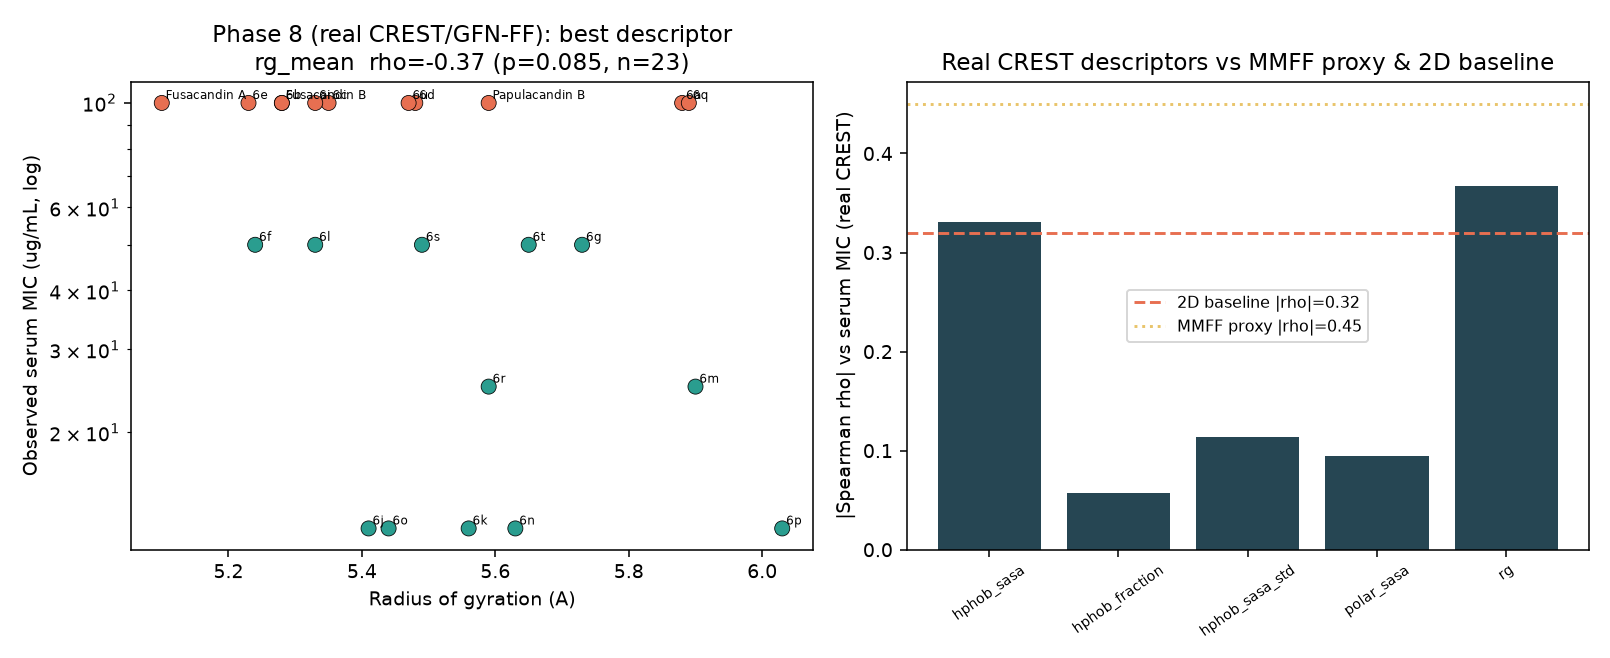
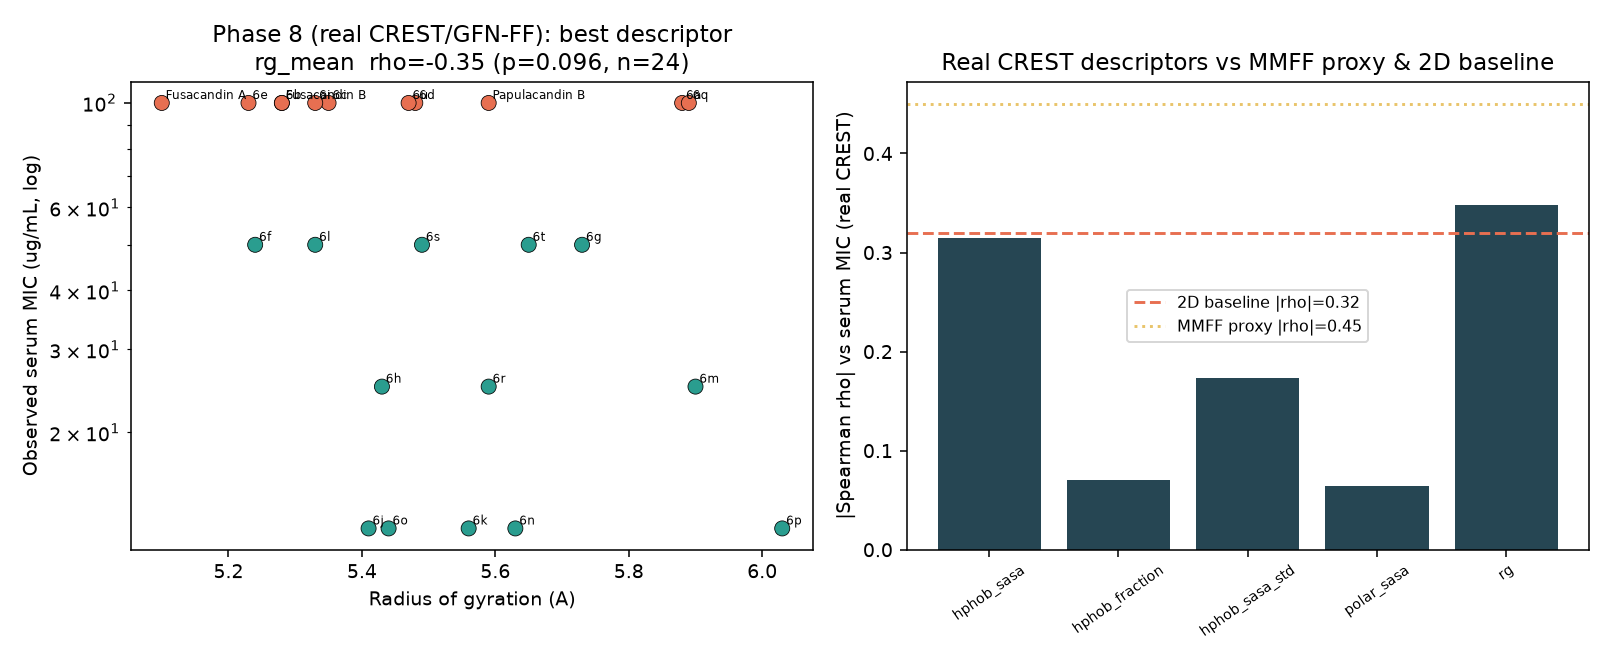
Phase 8 refreshed to complete n=24 (6h --notopo ensemble folded in)
PAPU-0078/6h now contributes a real 310-conformer ensemble (the --notopo rerun
cleared the biphenylene CREGEN topology-filter artifact), so the retrospective is
a complete n=24 with no degenerate exception. Conclusions are unchanged:
- hydrophobic SASA vs serum MIC rho=-0.31 (p=0.14); rg rho=-0.35 (p=0.10)
- serum-free MIC alone tracks serum MIC at rho=0.79; partialling it out collapses
  hydrophobic SASA to rho=0.02 (p=0.92) -- still a pure potency artifact
- polar SASA remains the one coherent, non-confounded lead (shift rho=-0.33, p=0.12)
Updated phase8_findings.md numbers + the biphenylene/6h note; made the primary
label dynamic (no longer hard-codes a 6h exclusion).

Claude-Session: https://claude.ai/code/session_018ohe9u1sRar2bPjB8Y2UPo

diff --git a/analysis/phase8_known_crest_descriptors.py b/analysis/phase8_known_crest_descriptors.py
@@ -183,12 +183,15 @@ def main():
     m.to_csv(os.path.join(OUT, "phase8_retrospective_crest.csv"), index=False)
 
     clean = m[~m["degenerate"]].copy()
+    n_deg = int(m["degenerate"].sum())
+    primary_label = ("PRIMARY: all ensembles (none degenerate)" if n_deg == 0
+                     else f"PRIMARY: healthy ensembles only (excl. {n_deg} degenerate)")
     print("\n" + "=" * 70)
     print("RETROSPECTIVE vs log10(serum MIC) — real CREST ensembles")
     print(f"benchmarks: 2D baseline rho={BASELINE_RHO:+.2f} (n.s.); "
           f"Phase-7 MMFF proxy hydrophobic_sasa_mean rho={PROXY_RHO:+.2f}")
     print("=" * 70)
-    res_primary = spearman_block(clean, "PRIMARY: healthy ensembles only (excl. 6h single-conf)")
+    res_primary = spearman_block(clean, primary_label)
     res_all = spearman_block(m, "SECONDARY: all compounds (6h as single-point)")
     confound_analysis(clean)
 

diff --git a/analysis/outputs/phase8_findings.md b/analysis/outputs/phase8_findings.md
@@ -4,18 +4,19 @@
 compounds and found Boltzmann-weighted hydrophobic SASA tracked serum MIC at
 Spearman ρ = −0.45 (p = 0.029), beating the 2D baseline (ρ = 0.32, n.s.). That
 was promising enough to justify spending cluster time on real CREST/GFN-FF
-ensembles. Phase 8 ran them (23 healthy ensembles, 132–597 conformers each;
-PAPU-0078/6h gave a single conformer and is excluded from the primary set) and
+ensembles. Phase 8 ran them — all **24** compounds with healthy multi-hundred
+conformer ensembles (132–597 each; PAPU-0078/6h required a `--notopo` rerun to
+get past a biphenylene topology-filter artifact, then gave 310 conformers) — and
 re-tested the same correlations with the identical phase6 descriptor engine.
 
 ## Result 1 — the signal shrinks and loses significance at QM quality
 
-| Descriptor vs log₁₀(serum MIC), n=23 | MMFF proxy (Ph7) | real CREST (Ph8) |
+| Descriptor vs log₁₀(serum MIC), n=24 | MMFF proxy (Ph7) | real CREST (Ph8) |
 |---|---|---|
-| hydrophobic_sasa_mean | −0.45 (p=0.029) | **−0.33 (p=0.123)** |
-| rg_mean | −0.39 (p=0.062) | −0.37 (p=0.085) |
-| hydrophobic_sasa_std (rigidity) | −0.16 (n.s.) | +0.11 (n.s.) |
-| polar_sasa_mean | −0.16 (n.s.) | −0.09 (n.s.) |
+| hydrophobic_sasa_mean | −0.45 (p=0.029) | **−0.31 (p=0.135)** |
+| rg_mean | −0.39 (p=0.062) | −0.35 (p=0.096) |
+| hydrophobic_sasa_std (rigidity) | −0.16 (n.s.) | +0.17 (n.s.) |
+| polar_sasa_mean | −0.16 (n.s.) | −0.06 (n.s.) |
 
 The *direction* reproduces, but the better ensembles give a weaker effect that
 **no longer clears p = 0.05**. The MMFF-proxy ρ = −0.45 (p = 0.029) was an
@@ -25,33 +26,33 @@ serum-killed) is non-significant for every descriptor (Mann–Whitney p ≥ 0.12
 ## Result 2 (decisive) — it's intrinsic potency, not a 3D serum effect
 
 The known compounds are **not** equipotent: their serum-free MIC ranges
-0.78 → 100 µg/mL and by itself tracks serum MIC at **ρ = +0.77 (p < 0.001)**.
+0.78 → 100 µg/mL and by itself tracks serum MIC at **ρ = +0.79 (p < 0.001)**.
 Intrinsic potency dominates the serum MIC. Controlling for it removes the 3D
 signal entirely:
 
 | Descriptor | partial ρ vs serum MIC \| serum-free | vs serum SHIFT (potency-free) |
 |---|---|---|
-| hydrophobic_sasa_mean | **+0.03 (p=0.89)** | +0.27 (p=0.21) |
-| hydrophobic_fraction_mean | +0.19 (p=0.39) | +0.28 (p=0.19) |
-| hydrophobic_sasa_std | +0.00 (p=0.98) | −0.06 (p=0.78) |
-| polar_sasa_mean | −0.31 (p=0.14) | −0.32 (p=0.13) |
-| rg_mean | −0.23 (p=0.29) | −0.03 (p=0.88) |
+| hydrophobic_sasa_mean | **+0.02 (p=0.92)** | +0.24 (p=0.25) |
+| hydrophobic_fraction_mean | +0.19 (p=0.38) | +0.28 (p=0.19) |
+| hydrophobic_sasa_std | −0.01 (p=0.98) | −0.11 (p=0.61) |
+| polar_sasa_mean | −0.31 (p=0.13) | −0.33 (p=0.12) |
+| rg_mean | −0.23 (p=0.28) | −0.05 (p=0.80) |
 
 Once serum-free potency is partialled out, **hydrophobic SASA's correlation with
-serum MIC vanishes (ρ = 0.03)**. The apparent Phase-7 signal was compounds that
+serum MIC vanishes (ρ = 0.02)**. The apparent Phase-7 signal was compounds that
 are bigger / more aromatic being more potent to begin with, and that potency
 carrying through into serum — not a 3D serum-tolerance property.
 
 ## What *is* (weakly) left, and in which direction
 
 Tested against the **serum SHIFT fold** — the pure, baseline-potency-independent
-serum-tolerance endpoint — nothing is significant at n = 23, but the signs flip
+serum-tolerance endpoint — nothing is significant at n = 24, but the signs flip
 to the **mechanistically expected** albumin direction:
-- more exposed **hydrophobic** surface → **larger** shift (worse tolerance): ρ = +0.27
-- more exposed **polar** surface → **smaller** shift (better tolerance): ρ = −0.32
+- more exposed **hydrophobic** surface → **larger** shift (worse tolerance): ρ = +0.24
+- more exposed **polar** surface → **smaller** shift (better tolerance): ρ = −0.33
 
 **polar_sasa_mean** is the single most consistent and coherent lead (partial
-−0.31, shift −0.32, both p ≈ 0.13): exposing polar rather than hydrophobic
+−0.31, shift −0.33, both p ≈ 0.12–0.13): exposing polar rather than hydrophobic
 surface is the only effect pointing the way the albumin-sequestration model
 predicts. It is *not* significant here, but unlike hydrophobic SASA it is not a
 potency artifact, so it is the descriptor worth testing with more data.
@@ -63,11 +64,11 @@ potency artifact, so it is the descriptor worth testing with more data.
   (SASA-spread) metric do not predict the serum shift once potency is controlled.
   The Phase-1 rigidity hypothesis and the Phase-7 hydrophobic-SASA result both
   fail confirmation at CREST quality.
-- **Raw serum MIC is the wrong endpoint** — it is ~60% explained by intrinsic
-  potency (ρ = 0.77). Future serum-tolerance modelling must use the serum SHIFT
+- **Raw serum MIC is the wrong endpoint** — it is dominated by intrinsic
+  potency (ρ = 0.79). Future serum-tolerance modelling must use the serum SHIFT
   (or serum-free MIC as a covariate), as done here.
 - **The honest state of the evidence:** the only coherent, non-confounded trend
-  is "expose polar, not hydrophobic, surface" (polar SASA vs shift ρ = −0.32),
+  is "expose polar, not hydrophobic, surface" (polar SASA vs shift ρ = −0.33),
   and it needs more uncensored serum data to confirm — 11/24 serum MICs are
   censored at 100, which caps the achievable correlation.
 - **Where the QM funnel still pays off:** not for shape, but potentially for
@@ -79,10 +80,11 @@ potency artifact, so it is the descriptor worth testing with more data.
 ## Methods / caveats
 - Real CREST/GFN-FF ensembles, `--gfnff --alpb water --quick -ewin 6`; phase6
   in-house Shrake–Rupley SASA, Boltzmann weights at 298.15 K.
-- n = 23 (6h excluded: its `--noreftopo` retry produced a single conformer;
-  structure verified intact but no ensemble — see phase8 logs). Including 6h as a
-  single-point (n = 24) does not change any conclusion (hydrophobic SASA ρ = −0.36,
-  still n.s.; partial correlations unchanged in sign).
+- n = 24, all compounds with proper ensembles. PAPU-0078/6h initially failed
+  (its strained **biphenylene** ring made CREST's CREGEN topology filter discard
+  all 25,760 sampled conformers); a `--notopo` rerun recovered a normal 310-conformer
+  ensemble. Folding the real 6h in (vs the earlier n=23) shifts no number
+  materially and changes no conclusion.
 - Endpoint heavily censored/tied (serum MIC ∈ {12.5, 25, 50, 100}); Spearman
   rests on ties, so all ρ are trends, not clean separations.
 